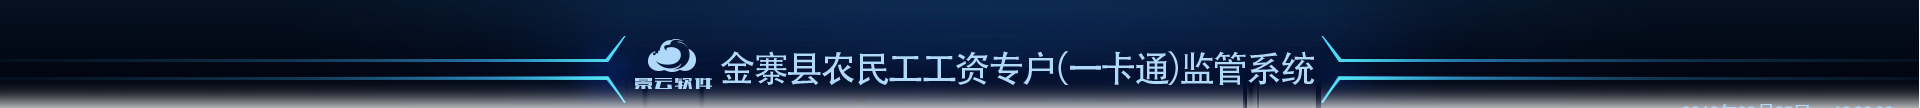
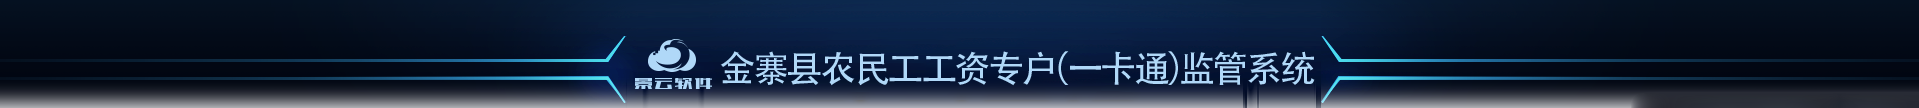
样式调整

diff --git a/javascript/main.js b/javascript/main.js
@@ -176,31 +176,31 @@
                         workerGroupPresentCount: "3",
                         workerPresentCount: "8"
                     }, {
-                            proName: "测试项目2",
-                            warningCount: "13",
-                            workerGroupPresentCount: "1",
-                            workerPresentCount: "8"
-                        }, {
-                            proName: "测试项目3",
-                            warningCount: "14",
-                            workerGroupPresentCount: "5",
-                            workerPresentCount: "8"
-                        }, {
-                            proName: "测试项目4",
-                            warningCount: "0",
-                            workerGroupPresentCount: "1",
-                            workerPresentCount: "8"
-                        }, {
-                            proName: "测试项目5",
-                            warningCount: "24",
-                            workerGroupPresentCount: "2",
-                            workerPresentCount: "8"
-                        }, {
-                            proName: "测试项目6",
-                            warningCount: "0",
-                            workerGroupPresentCount: "1",
-                            workerPresentCount: "8"
-                        })
+                        proName: "测试项目2",
+                        warningCount: "13",
+                        workerGroupPresentCount: "1",
+                        workerPresentCount: "8"
+                    }, {
+                        proName: "测试项目3",
+                        warningCount: "14",
+                        workerGroupPresentCount: "5",
+                        workerPresentCount: "8"
+                    }, {
+                        proName: "测试项目4",
+                        warningCount: "0",
+                        workerGroupPresentCount: "1",
+                        workerPresentCount: "8"
+                    }, {
+                        proName: "测试项目5",
+                        warningCount: "24",
+                        workerGroupPresentCount: "2",
+                        workerPresentCount: "8"
+                    }, {
+                        proName: "测试项目6",
+                        warningCount: "0",
+                        workerGroupPresentCount: "1",
+                        workerPresentCount: "8"
+                    });
                     $wagesWrap.empty();
                     for (var index = 0; index < presentRecordData.length; index++) {
                         var badgeClassName = '';
@@ -225,57 +225,10 @@
                         $wagesWrap.append(listHtml);
                     };
                     // 文字翻滚效果
-                    if (presentRecordData.length > recordListLength) {
-                        dataInter = setInterval(function () {
-                            // var first = $(".wages-list")[0];
-                            // $(".wages-list")[0].remove();
-                            // $wagesWrap.append(first);
-                            // $wagesWrap.scrollTop("25");
-                            $(".wages-list:first").animate({ "margin-top": -23 }, 1000, function () {
-                                $(this).css("margin-top", 0).appendTo(".wages-wrap");
-                            })
-                        }, 2000);
-                    }
-                    // var carousel = 0,
-                    //     dataLength = presentRecordData.length, // 数据总个数
-                    //     slideNum; // 播放几帧
-                    // slideNum = Math.ceil(dataLength / recordListLength);
-                    // if (slideNum > 1) {
-                    //     for (var cur = 0; cur < recordListLength; cur++) {
-                    //         var listHtml = '<div class="wages-list"><div class="wages-item wages-name">'
-                    //             + presentRecordData[cur].proName + '</div ><div class="wages-item wages-worker fc-g">'
-                    //             + presentRecordData[cur].workerPresentCount + '</div><div class="wages-item wages-group fc-g">'
-                    //             + presentRecordData[cur].workerGroupPresentCount + '</div><div class="wages-item wages-count fc-g"><span>'
-                    //             + presentRecordData[cur].warningCount + '</span></div></div >';
-                    //         $wagesTitle.after(listHtml);
-                    //     };
-                    //     var dataInter = setInterval(function () {
-                    //         carousel ++;
-                    //         if (carousel < slideNum) {
-                    //             $(".wages-list").remove();
-                    //             for (var carouselCur = carousel * recordListLength; carouselCur < presentRecordData.length && carouselCur < (carousel + 1) * recordListLength; carouselCur++) {
-                    //                 var listHtml = '<div class="wages-list"><div class="wages-item wages-name">'
-                    //                     + presentRecordData[carouselCur].proName + '</div ><div class="wages-item wages-worker fc-g">'
-                    //                     + presentRecordData[carouselCur].workerPresentCount + '</div><div class="wages-item wages-group fc-g">'
-                    //                     + presentRecordData[carouselCur].workerGroupPresentCount + '</div><div class="wages-item wages-count fc-g"><span>'
-                    //                     + presentRecordData[carouselCur].warningCount + '</span></div></div >';
-                    //                 $wagesTitle.after(listHtml);
-                    //             }
-                    //         } else {
-                    //             clearInterval(dataInter);
-                    //             carousel = 0;
-                    //         }
-                    //     }, 3000);
-                    // } else {
-                    //     for (var index = 0; index < presentRecordData.length; index++) {
-                    //         var listHtml = '<div class="wages-list"><div class="wages-item wages-name">'
-                    //             + presentRecordData[index].proName + '</div ><div class="wages-item wages-worker fc-g">'
-                    //             + presentRecordData[index].workerPresentCount + '</div><div class="wages-item wages-group fc-g">'
-                    //             + presentRecordData[index].workerGroupPresentCount + '</div><div class="wages-item wages-count fc-g"><span>'
-                    //             + presentRecordData[index].warningCount + '</span></div></div >';
-                    //         $wagesTitle.after(listHtml);
-                    //     }
-                    // };
+                    clearInterval(dataInterval);
+                    dataInterval = {};
+                    listAnimate();
+                    
                 } else {
                     alert(result[0].errMsg);
                 }
@@ -300,10 +253,13 @@
                         },
                         legend: {
                             orient: 'vertical',
-                            left: '50%',
+                            left: '45%',
                             top: '20%',
+                            itemWidth: 15,
+                            itemHeight: 7,
                             textStyle: {
-                                color: '#1694f4'
+                                color: '#1694f4',
+                                fontSize: 12
                             },
                             data: accInfoData.name,
                             formatter: function (name) {
@@ -583,7 +539,7 @@
                             },
                             itemStyle: {
                                 normal: {
-                                    color: '#00e8f5'
+                                    color: '#059da6'
                                 }
                             },
                             data: accDetailData.monthData,
@@ -984,6 +940,29 @@
         }
     };
 
+    // 事件绑定
+    var events = function () {
+        $(document)
+            .on("mouseover mouseout", ".wages-wrap", function (event) {
+                if (event.type == "mouseover") {
+                    //鼠标悬浮
+                    if (presentRecordData.length > recordListLength) {
+                        clearInterval(dataInterval);
+                    }
+                } else if (event.type == "mouseout") {
+                    //鼠标离开
+                    function anim() {
+                        $(".wages-list:first").animate({ "margin-top": -23 }, 1000, function () {
+                            $(this).css("margin-top", 0).appendTo(".wages-wrap");
+                        })
+                    }
+                    if (presentRecordData.length > recordListLength) {
+                        dataInterval = setInterval(anim, 2000);
+                    }
+                }
+            })
+    };
+
     // 实时项目考勤的列表可展示几条
     function getPresentRecordListLength() {
         var wagesHeight = $(".wages").height(),
@@ -994,6 +973,20 @@
         return itemNum = parseInt(listHeight / titleHeight);
     }
 
+    // 实时项目考勤文字翻滚
+    function listAnimate() {
+        if (presentRecordData.length > recordListLength) {
+            dataInterval = {};
+            function anim() {
+                $(".wages-list:first").animate({ "margin-top": -23 }, 500, function () {
+                    $(this).css("margin-top", 0).appendTo(".wages-wrap");
+                })
+            }
+            dataInterval = setInterval(anim, 2000);
+        }
+    }
+
+    // 格式化
     var format = {
         numFormat: function (value) { //Y轴大于1W的格式化
             var val;
@@ -1025,8 +1018,6 @@
     function init() {
         // 时间
         chartsController.getTime();
-        // 项目考勤列表获取可容纳条目数
-        recordListLength = getPresentRecordListLength();
         // 务工人员柱状图
         chartsController.workerOptions();
         chartsController.getWorkerSeries();
@@ -1071,14 +1062,18 @@
     $(function () {
         // 初始化
         init();
+        // 项目考勤列表获取可容纳条目数
+        recordListLength = getPresentRecordListLength();
+        events();
         // 定时数据获取
-        // setInterval(timer, 10000);
+        setInterval(timer, 10000);
         // 窗口变化图表自适应
         $(window).resize(function () {
+            // 项目考勤列表获取可容纳条目数
+            recordListLength = getPresentRecordListLength();
             $workerChart.resize();
             $accInfoChart.resize();
             $accDetailchart.resize();
-
         });
 
 

diff --git a/css/main.css b/css/main.css
@@ -70,21 +70,24 @@ body {
     left: 0;
     top: 0;
     width: 100%;
-    height: 9%;
-    margin-bottom: 1%;
+    height: 8%;
     background-image: url('../images/top-name.png');
     background-repeat: no-repeat;
-    background-position: center center;
-    background-size: 100% auto;
+    background-position: 50% bottom;
+    background-size: 85% auto;
     overflow: hidden;
 }
 
-.top-time {
+.topTimeContainer {
     position: absolute;
-    right: 14px;
-    bottom: -5px;
+    left: 0;
+    top: 7%;
+    width: 100%;
+    height: 2%;
+    padding: 0 1%;
+    text-align: right;
     color: #fff;
-    font-size: 0.9rem;
+    font-size: 0.85rem;
 }
 
 /* 外围框架 */
@@ -313,6 +316,8 @@ body {
 }
 
 .data-item .data-item-name {
+    position: relative;
+    left: -4px;
     color: #70bcf1;
 }
 
@@ -462,7 +467,7 @@ body {
     bottom: 0;
     width: 100%;
     padding: 0 10px;
-    overflow: auto;    
+    overflow: hidden    
 }
 
 .wages-list {

diff --git a/index.html b/index.html
@@ -16,8 +16,8 @@
     <div class="main">
         <!-- 头部 -->
         <div class="topContainer">
-            <div id="topTime" class="top-time">00:00:00</div>
         </div>
+        <div id="topTime" class="topTimeContainer">00:00:00</div>
         <!-- 务工人员统计表 -->
         <div class="ltContainer container">
             <div class="workerPanel">
